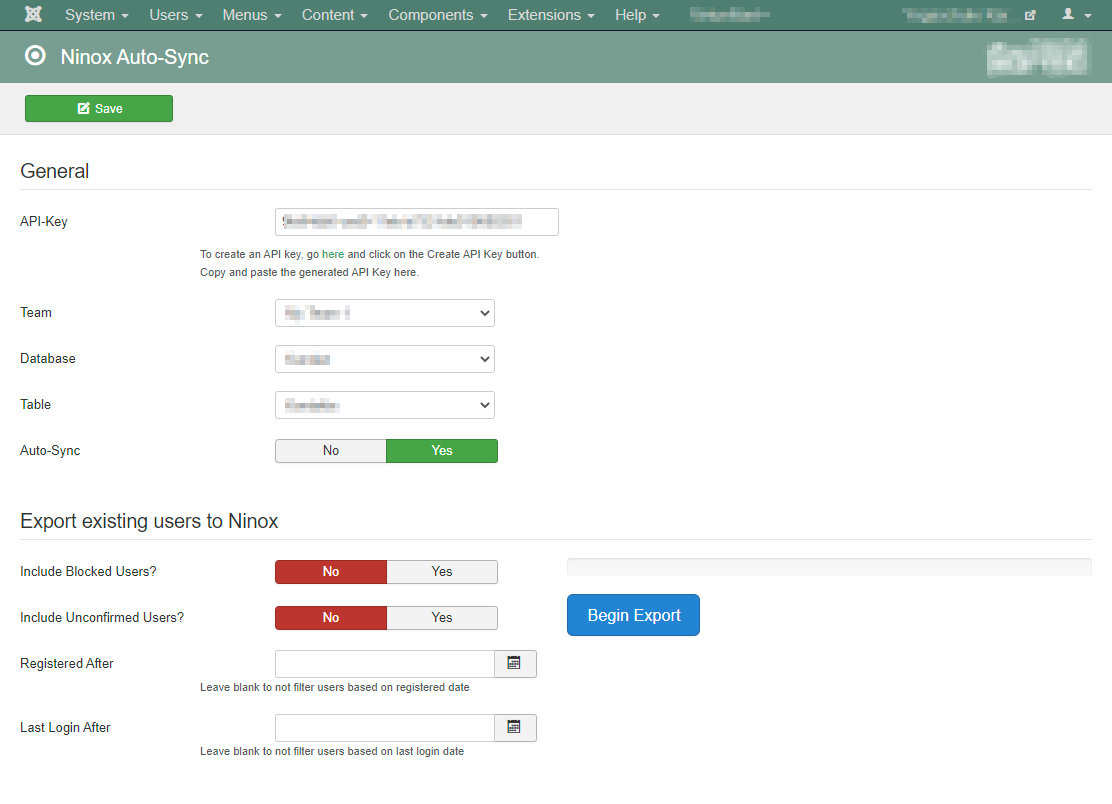
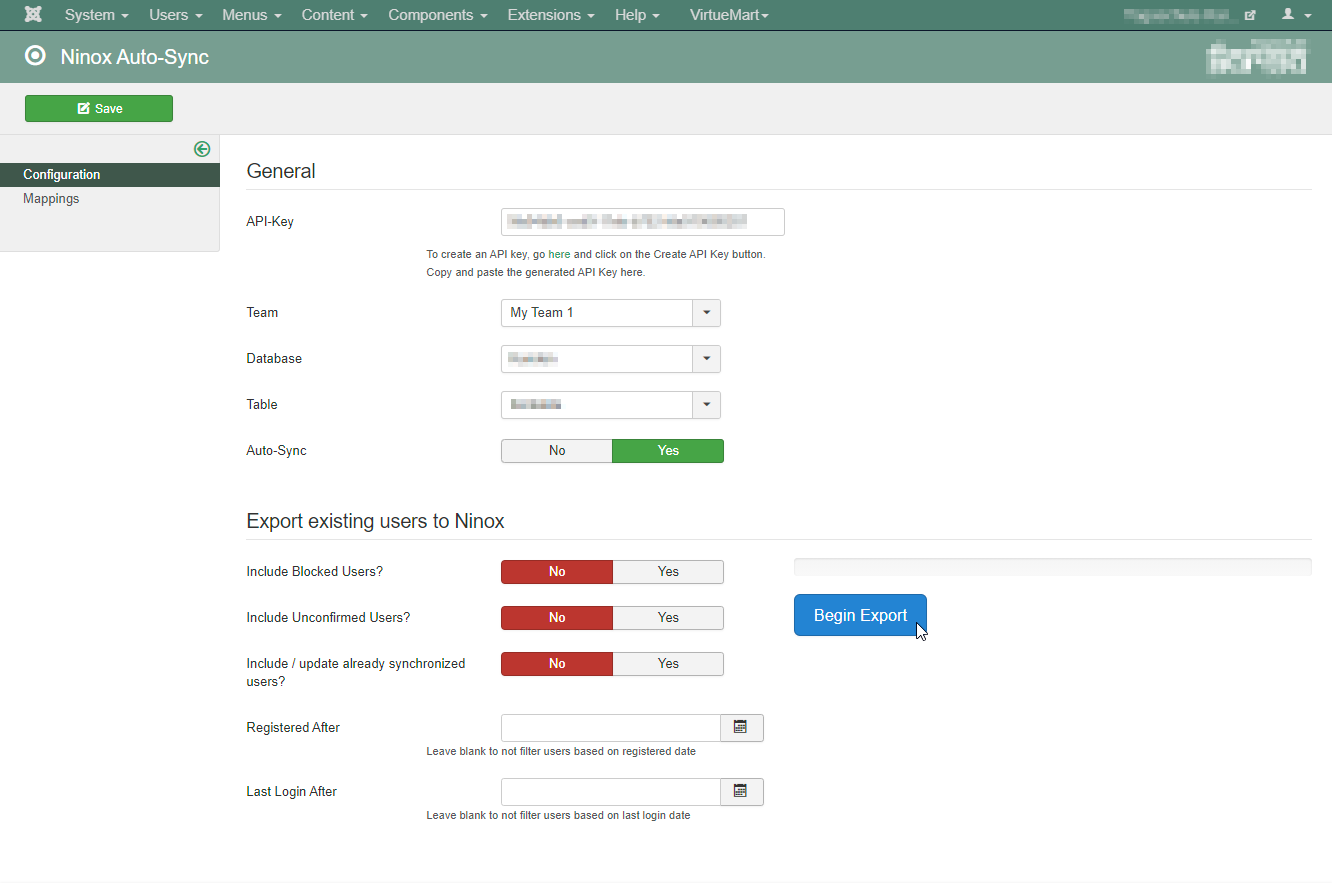
Completed initial virtuemart integration

diff --git a/src/packages/com_ninox/administrator/helpers/ninox.php b/src/packages/com_ninox/administrator/helpers/ninox.php
@@ -140,6 +140,10 @@ class NinoxHelper {
 				$contacts[$i]->id = $userMappings[$userId]['ninoxId'];
 			}
 		}
+
+		VmConfig::importVMPlugins('ninox');
+		$dispatcher = JDispatcher::getInstance();
+		$dispatcher->trigger('ninoxOnBeforeSync', $contacts);
 		
 		$ch = curl_init("https://api.ninoxdb.de/v1/teams/$teamId/databases/$databaseId/tables/$tableId/records");
 		curl_setopt($ch, CURLOPT_RETURNTRANSFER, 1);
@@ -427,9 +431,53 @@ class NinoxHelper {
 			->where($db->quoteName('virtuemart_user_id') . ' IN ( ' . implode(', ', $userIds) . ')');
 
 		$db->setQuery($query);
-		$assocs = $db->loadAssocList('virtuemart_user_id');
+		$userinfos = $db->loadAssocList('virtuemart_user_id');
 
-		return self::addPrefixToArrayItemKeys($assocs, $prefix);
+		// Make sure to maunally add users without userinfo to result
+		foreach ($userIds as $userId) 
+		{
+			if(array_key_exists($userId, $userinfos))
+			{
+				continue;
+			}
+
+			$userinfo = array();
+			foreach ($fields as $field) 
+			{
+				$userinfo[$field] = '';
+			}
+
+			$userinfos[$userId] = $userinfo;
+		}
+
+		// Fix or set title field
+		// Consider moving this to a separate plugin
+		if(in_array('title', $fields))
+		{
+			foreach ($userinfos as $key => $userinfo) 
+			{
+				if(array_key_exists('title', $userinfo))
+				{
+					switch (strtolower($userinfo['title'])) 
+					{
+						case 'mr':
+							$userinfos[$key]['title'] = 1;
+							break;
+						case 'mrs':
+							$userinfos[$key]['title'] = 2;
+							break;
+						default:
+							$userinfos[$key]['title'] = 3;
+					}
+				}
+				else
+				{
+					$userinfos[$key]['title'] = 3;
+				}
+			}
+		}
+
+		return self::addPrefixToArrayItemKeys($userinfos, $prefix);
 	}
 	
 	static function removePrefix($text, $prefix) 

diff --git a/src/packages/com_ninox/administrator/models/ninox.php b/src/packages/com_ninox/administrator/models/ninox.php
@@ -17,6 +17,7 @@ class NinoxModelNinox extends JModelLegacy {
 	protected $include_unconfirmed;
 	protected $registered_after;
 	protected $last_login_after;
+	protected $include_already_synced;
 
 	public function __construct($config = array()) {
 		$this->users_table = '#__users';
@@ -24,6 +25,7 @@ class NinoxModelNinox extends JModelLegacy {
 		$this->include_unconfirmed = 0;
 		$this->registered_after = '';
 		$this->last_login_after = '';
+		$this->include_already_synced = 0;
 		parent::__construct($config);
 	}
 
@@ -65,6 +67,7 @@ class NinoxModelNinox extends JModelLegacy {
 		$db = $this->getDbo();
 		$this->include_blocked = $input->get('include_blocked', 0, 'INT');
 		$this->include_unconfirmed = $input->get('include_unconfirmed', 0, 'INT');
+		$this->include_already_synced = $input->get('include_already_synced', 0, 'INT');
 		$registered_after = $input->get('registered_after', '', 'STR');
 		$last_login_after = $input->get('last_login_after', '', 'STR');
 		$this->registered_after = ($registered_after) ? JFactory::getDate($registered_after)->toSQL() : '0000-00-00 00:00:00';
@@ -88,7 +91,7 @@ class NinoxModelNinox extends JModelLegacy {
 		$total = (int)$db->loadResult();
 		$return['total'] = $total;
 		
-		$userDtos = $this->getUsers(true);
+		$userDtos = $this->getUsers($this->include_already_synced);
 
 		$return['exported'] = count($userDtos);
 		if(count($userDtos) > 0)

diff --git a/src/packages/com_ninox/administrator/views/configuration/tmpl/default.php b/src/packages/com_ninox/administrator/views/configuration/tmpl/default.php
@@ -138,6 +138,15 @@ $document->addScriptDeclaration($js);
 				</div>
 		
 				<div class="control-group">
+					<label class="hasTooltip control-label" for="include_already_synced" title="<?php echo JText::_('COM_NINOX_INCLUDE_ALREADY_SYNCED_USERS_TOOLTIP'); ?>">
+						<?php echo JText::_('COM_NINOX_INCLUDE_ALREADY_SYNCED_USERS'); ?>
+					</label>
+					<div class="controls">
+						<?php echo NinoxHtmlHelper::getBooleanInput('include_already_synced', '0'); ?>
+					</div>
+				</div>
+		
+				<div class="control-group">
 					<label class="hasTooltip control-label" for="registered_after" title="<?php echo JText::_('COM_NINOX_REGISTERED_DATE_FILTER_TOOLTIP'); ?>">
 						<?php echo JText::_('COM_NINOX_REGISTERED_DATE'); ?>
 					</label>

diff --git a/README.md b/README.md
@@ -1,8 +1,20 @@
 # joomla-ninox
 
-Ninox Auto-Sync lets you synchronize new users and import existing users to your Ninox account.
+Ninox Auto-Sync lets you synchronize new users and import existing users to your [Ninox](https://app.ninox.com/) account.
 
-![joomla-ninox admin configuration view](images/admin-configuration-view.png)
+Since ninox is a quite dynamic database, this package comes with a very basic a-to-b property mapping. I initially wrote this package for my needs so double check if it's working out for you. You're always welcome to improve this package with you contribution.
+
+Configuration view         | Property mapping view
+:-------------------------:|:-------------------------:
+![joomla-ninox admin configuration view](images/admin-configuration-view.png) | ![joomla-ninox admin mapping view](images/admin-mappings-view.png)
+
+## Package parts
+
+| name              | type        | description
+| ----------------- | ----------- | --------------
+| `com_ninox`       | `component` | Administrator-UI and main codebase
+| `ninox_user`      | `plugin`    | Joomla user changes event trigger handlers
+| `ninox_vmshopper` | `plugin`    | Virtuemart user changes event trigger handler (optional; see [see important notes](https://github.com/NecatiMeral/joomla-ninox/issues/5))
 
 ## Contributing
 
